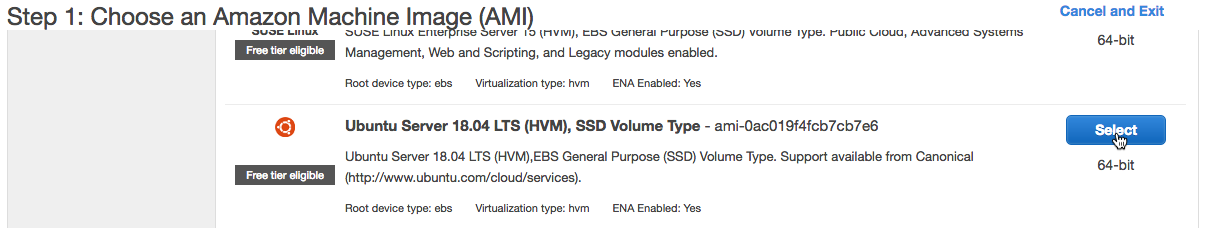
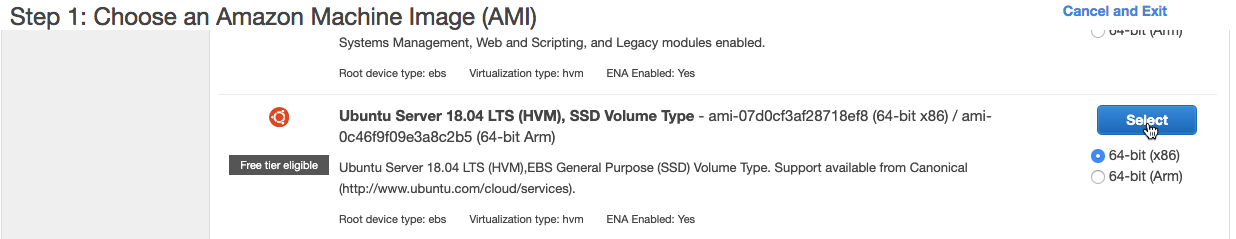
reflect current AWS offerrings for AMI step

diff --git a/docs/install/amazon.rst b/docs/install/amazon.rst
@@ -61,7 +61,8 @@ Let's create the server on which we can run JupyterHub.
 #. On the page **Step 1: Choose an Amazon Machine Image (AMI)** you are going 
    to pick the base image your remote server will have. The view will 
    default to the 'Quick-start' tab selected and just a few down the page, select 
-   **Ubuntu Server 18.04 LTS (HVM), SSD Volume Type - ami-XXXXXXXXXXXXXXXXX**.
+   **Ubuntu Server 18.04 LTS (HVM), SSD Volume Type - ami-XXXXXXXXXXXXXXXXX**, 
+   leaving `64-bit (x86)` toggled.
    
    .. image:: ../images/providers/amazon/select_ubuntu_18.png
       :alt: Click Ubuntu server 18.04
